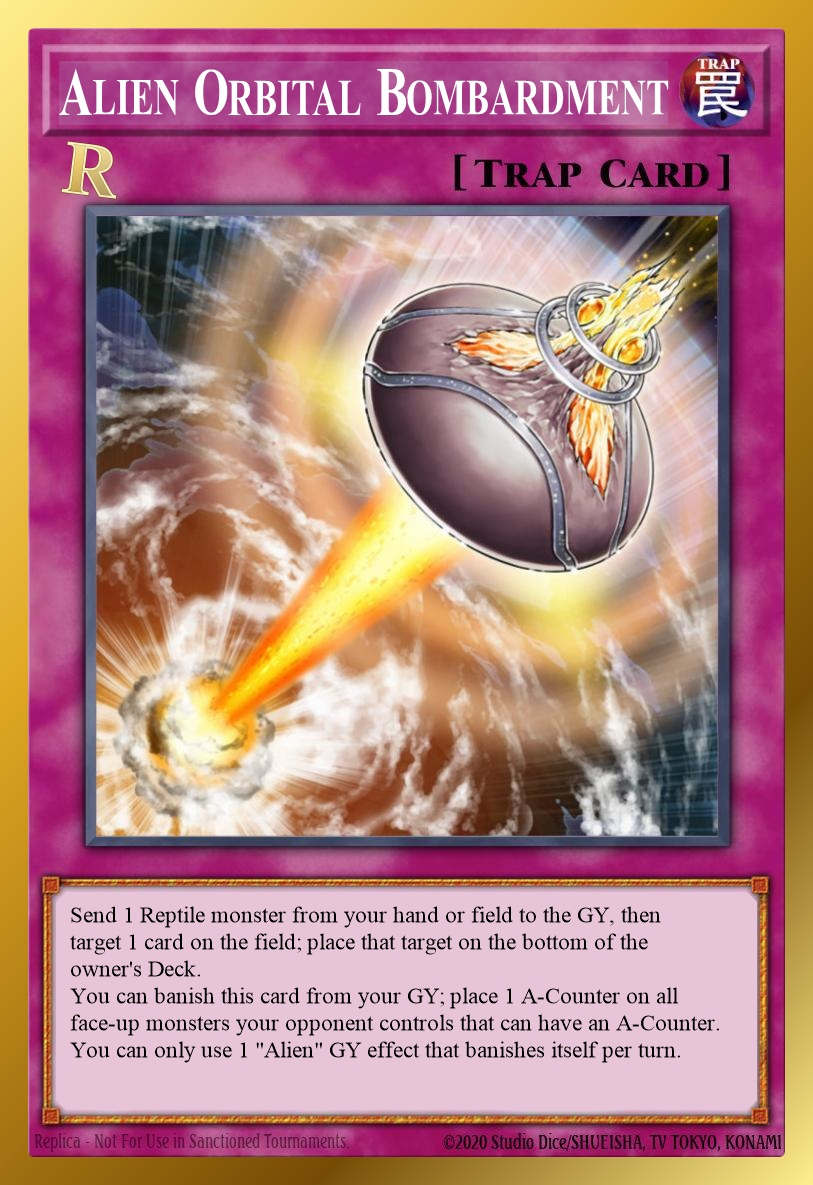
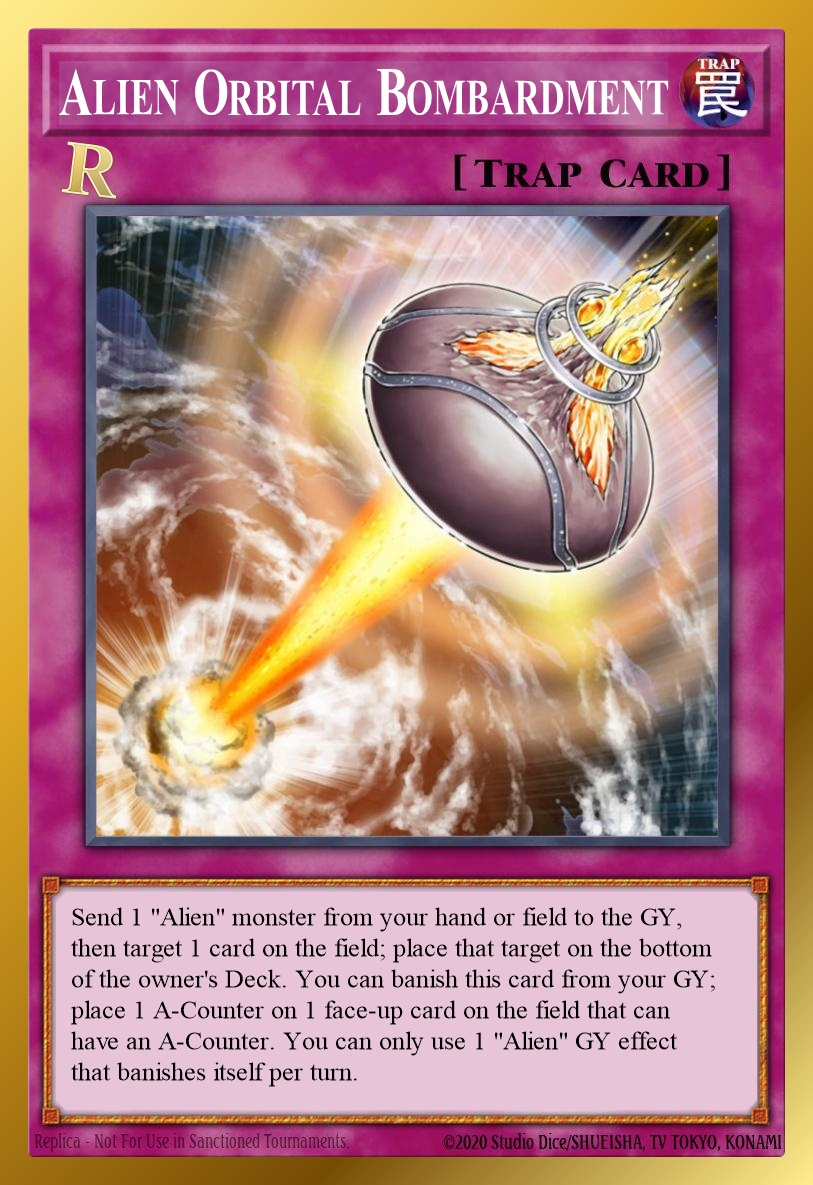
fix title change bug and nerf Alien Orbital Bombardment

Changed region(s): [[0.0923, 0.7494, 0.8918, 0.9367]]

diff --git a/Redux/scripts/build-cards-cdb.js b/Redux/scripts/build-cards-cdb.js
@@ -208,9 +208,9 @@ module.exports = function buildCardsDb({ reduxRoot }) {
     .prepare("UPDATE texts SET name = ?, desc = ?, str1 = ?, str2 = ? WHERE id = ?")
     .run(
       "Alien Orbital Bombardment",
-      'Send 1 Reptile monster from your hand or field to the GY, then target 1 card on the field; place that target on the bottom of the owner\'s Deck.\nYou can banish this card from your GY; place 1 A-Counter on all face-up monsters your opponent controls that can have an A-Counter. You can only use 1 "Alien" GY effect that banishes itself per turn.',
+      'Send 1 "Alien" monster from your hand or field to the GY, then target 1 card on the field; place that target on the bottom of the owner\'s Deck. You can banish this card from your GY; place 1 A-Counter on 1 face-up card on the field that can have an A-Counter. You can only use 1 "Alien" GY effect that banishes itself per turn.',
       "Place 1 card on the bottom of the owner's Deck",
-      "Place 1 A-Counter on your opponent's monsters",
+      "Place 1 A-Counter on 1 face-up card",
       96875080,
     );
   const codeAAncientRuinsTextResult = db

diff --git a/Redux/scripts/card-name-changes.js b/Redux/scripts/card-name-changes.js
@@ -1,0 +1,15 @@
+// Passcodes whose printed card title should be re-rendered on Redux card images.
+// Only list cards where Redux intentionally changes the display name in .cdb.
+// Errata-only cards that keep the same title (including pre-errata prints) stay off this list.
+module.exports = new Set([
+  68638985, // Slime Toad (was FROG THE JAM)
+  73262676, // Alien "A" Cell Scatter Burst
+  97697678, // Alien Mothership Muusik'I
+  99342953, // Alien Code A Ancient Ruins
+  96875080, // Alien Orbital Bombardment
+  24082387, // Alien Crop Circles
+  21768554, // Alien Mass Hypnosis
+  53291093, // Alien Mysterious Triangle
+  60946968, // Alien Otherworld - The "A" Zone
+  39163598, // Alien Planet Pollutant Virus
+]);

diff --git a/README.md b/README.md
@@ -83,7 +83,7 @@ Redux Limits: `0` = forbidden; `1` = limited; `2` = semi-limited; `3` = unlimite
 | `3` [Alien Mother](https://yugioh.fandom.com/wiki/Alien_Mother) | 🔄 Summons itself with A-Counters; steals battle-destroyed A-Counter monsters; protects itself |
 | `3` [Alien Mothership Muusik'I](https://yugioh.fandom.com/wiki/Flying_Saucer_Muusik%27i) | 🔄 Counts as Alien; discards to summon itself; banish from GY to summon or search Alien |
 | `3` [Alien Mysterious Triangle](https://yugioh.fandom.com/wiki/Mysterious_Triangle) | 🔄 Counts as Alien |
-| `3` [Alien Orbital Bombardment](https://yugioh.fandom.com/wiki/Orbital_Bombardment) | 🔄 Counts as Alien; bottom-decks any field card; shared Alien GY effect gives A-Counters |
+| `3` [Alien Orbital Bombardment](https://yugioh.fandom.com/wiki/Orbital_Bombardment) | 🔄 Counts as Alien; costs an Alien; bottom-decks any field card; shared Alien GY effect gives 1 A-Counter on 1 face-up card |
 | `3` [Alien Otherworld - The "A" Zone](https://yugioh.fandom.com/wiki/Otherworld_-_The_%22A%22_Zone) | 🔄 Counts as Alien |
 | `3` [Alien Overlord](https://yugioh.fandom.com/wiki/Alien_Overlord) | 🔄 Shares high-level Alien control limit |
 | `3` [Alien Planet Pollutant Virus](https://yugioh.fandom.com/wiki/Planet_Pollutant_Virus) | 🔄 Counts as Alien |
